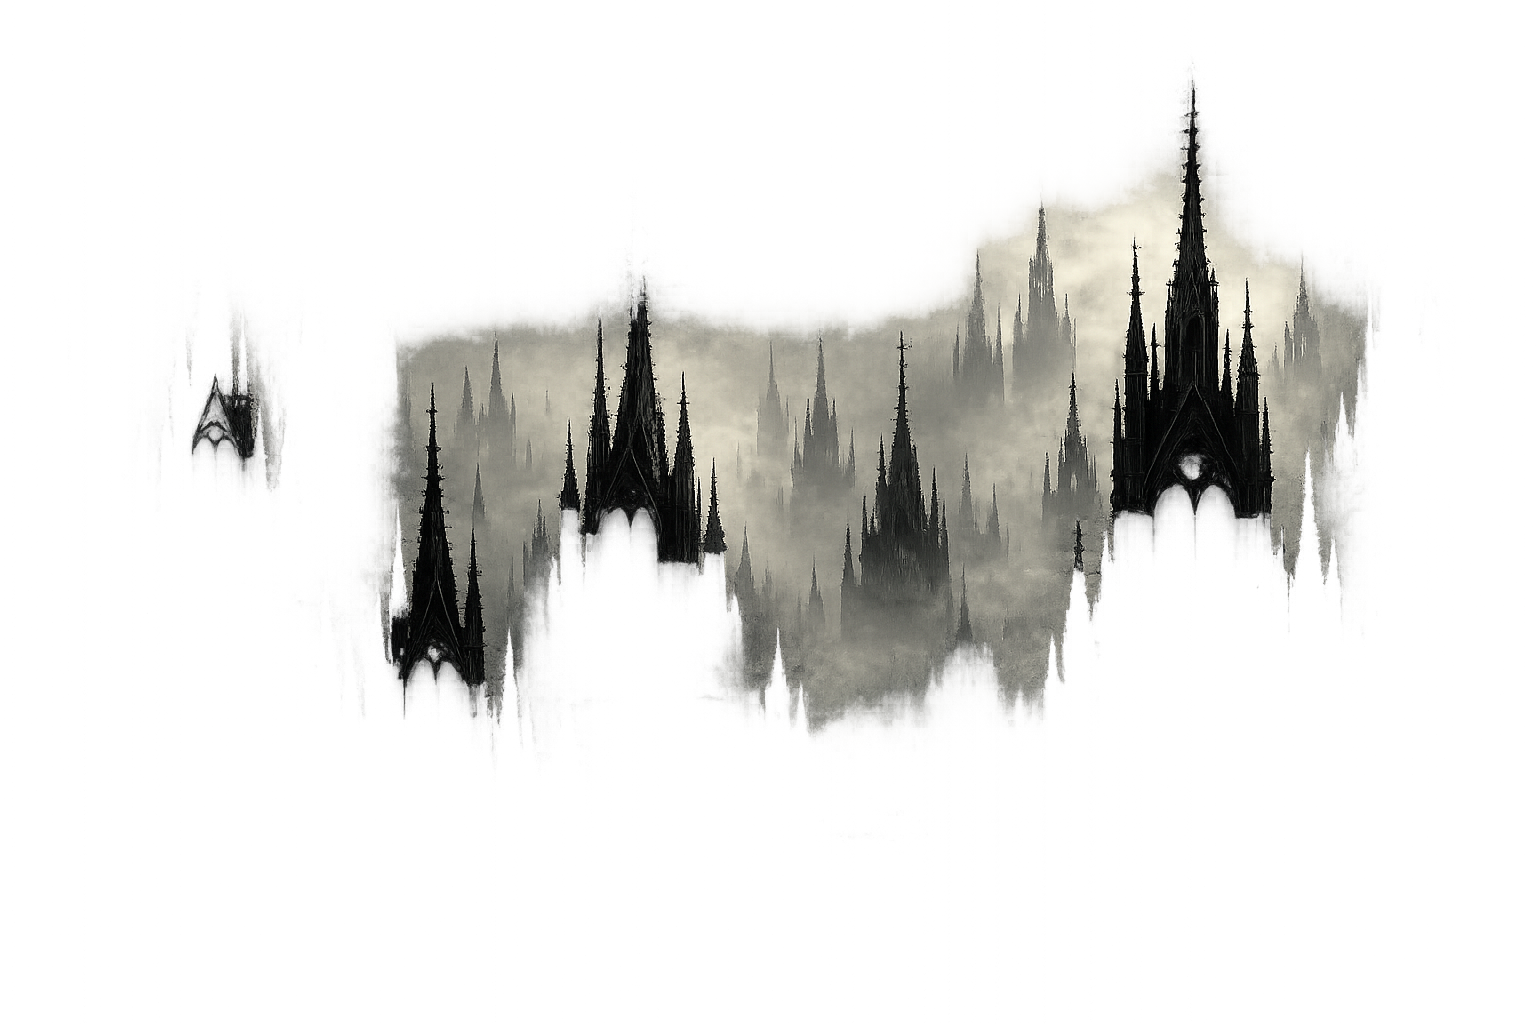
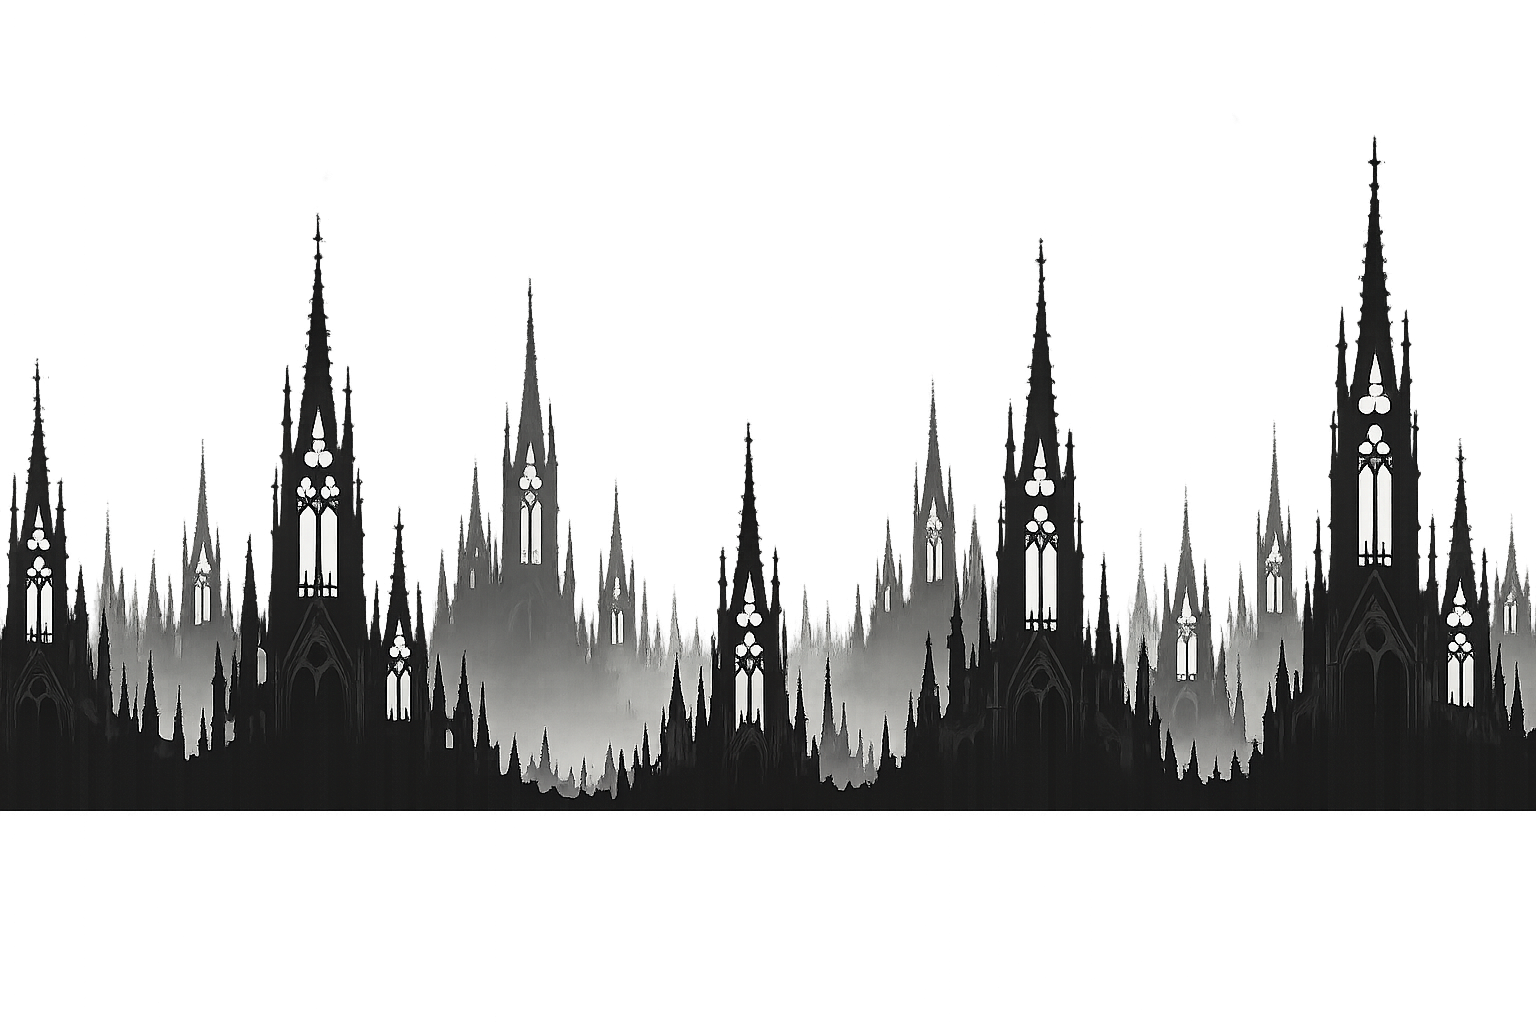
new photo for background

diff --git a/index.html b/index.html
@@ -65,7 +65,10 @@
       bottom: 0;
       left: 0;
       width: 100%;
+      display: block;
       pointer-events: none;
+      mix-blend-mode: screen;
+      opacity: 0.6;
     }
 
     /* GALLERY */
@@ -160,201 +163,7 @@
       <a href="services/" class="btn btn-ghost">View Services</a>
     </div>
 
-    <svg class="hero-drip" viewBox="0 0 1440 120" preserveAspectRatio="none" xmlns="http://www.w3.org/2000/svg" aria-hidden="true">
-      <path d="
-        M0,0
-        L0,40
-        C20,40 20,80 30,80
-        C35,80 35,100 40,100
-        C42,100 42,112 44,112
-        C45,112 45,118 46,118
-        C47,118 47,120 48,120
-        C49,120 49,118 50,118
-        C51,118 51,112 53,112
-        C55,112 55,100 60,100
-        C65,100 65,80 70,80
-        C80,80 80,40 100,40
-        C110,40 110,70 115,70
-        C118,70 118,88 120,88
-        C121,88 121,95 122,95
-        C123,95 123,98 124,98
-        C125,98 125,95 126,95
-        C127,95 127,88 129,88
-        C131,88 131,70 136,70
-        C141,70 141,40 160,40
-        C170,40 170,85 175,85
-        C178,85 178,105 180,105
-        C182,105 182,114 183,114
-        C184,114 184,119 185,119
-        C186,119 186,120 187,120
-        C188,120 188,119 189,119
-        C190,119 190,114 191,114
-        C192,114 192,105 194,105
-        C196,105 196,85 200,85
-        C205,85 205,40 220,40
-        C230,40 230,60 234,60
-        C236,60 236,75 237,75
-        C238,75 238,82 239,82
-        C240,82 240,75 241,75
-        C242,75 242,60 246,60
-        C250,60 250,40 270,40
-        C280,40 280,88 285,88
-        C288,88 288,108 290,108
-        C291,108 291,116 292,116
-        C293,116 293,120 294,120
-        C295,120 295,116 296,116
-        C297,116 297,108 299,108
-        C301,108 301,88 306,88
-        C311,88 311,40 330,40
-        C340,40 340,72 344,72
-        C346,72 346,90 347,90
-        C348,90 348,97 349,97
-        C350,97 350,90 351,90
-        C352,90 352,72 356,72
-        C360,72 360,40 380,40
-        C390,40 390,80 395,80
-        C398,80 398,100 400,100
-        C402,100 402,112 403,112
-        C404,112 404,118 405,118
-        C406,118 406,120 407,120
-        C408,120 408,118 409,118
-        C410,118 410,112 412,112
-        C414,112 414,100 419,100
-        C424,100 424,80 430,80
-        C440,80 440,40 460,40
-        C470,40 470,65 474,65
-        C476,65 476,82 477,82
-        C478,82 478,90 479,90
-        C480,90 480,82 481,82
-        C482,82 482,65 486,65
-        C490,65 490,40 510,40
-        C520,40 520,90 525,90
-        C528,90 528,108 530,108
-        C531,108 531,116 532,116
-        C533,116 533,120 534,120
-        C535,120 535,116 536,116
-        C537,116 537,108 539,108
-        C541,108 541,90 546,90
-        C551,90 551,40 570,40
-        C580,40 580,70 584,70
-        C586,70 586,86 587,86
-        C588,86 588,93 589,93
-        C590,93 590,86 591,86
-        C592,86 592,70 596,70
-        C600,70 600,40 620,40
-        C630,40 630,82 635,82
-        C638,82 638,102 640,102
-        C641,102 641,112 642,112
-        C643,112 643,118 644,118
-        C645,118 645,120 646,120
-        C647,120 647,118 648,118
-        C649,118 649,112 650,112
-        C651,112 651,102 653,102
-        C655,102 655,82 660,82
-        C665,82 665,40 680,40
-        C690,40 690,60 694,60
-        C696,60 696,75 697,75
-        C698,75 698,82 699,82
-        C700,82 700,75 701,75
-        C702,75 702,60 706,60
-        C710,60 710,40 730,40
-        C740,40 740,85 745,85
-        C748,85 748,105 750,105
-        C751,105 751,114 752,114
-        C753,114 753,119 754,119
-        C755,119 755,120 756,120
-        C757,120 757,119 758,119
-        C759,119 759,114 760,114
-        C761,114 761,105 763,105
-        C765,105 765,85 770,85
-        C775,85 775,40 790,40
-        C800,40 800,75 804,75
-        C806,75 806,92 807,92
-        C808,92 808,98 809,98
-        C810,98 810,92 811,92
-        C812,92 812,75 816,75
-        C820,75 820,40 840,40
-        C850,40 850,88 855,88
-        C858,88 858,108 860,108
-        C861,108 861,116 862,116
-        C863,116 863,120 864,120
-        C865,120 865,116 866,116
-        C867,116 867,108 869,108
-        C871,108 871,88 876,88
-        C881,88 881,40 900,40
-        C910,40 910,68 914,68
-        C916,68 916,84 917,84
-        C918,84 918,91 919,91
-        C920,91 920,84 921,84
-        C922,84 922,68 926,68
-        C930,68 930,40 950,40
-        C960,40 960,80 965,80
-        C968,80 968,100 970,100
-        C971,100 971,110 972,110
-        C973,110 973,115 974,115
-        C975,115 975,110 976,110
-        C977,110 977,100 979,100
-        C981,100 981,80 986,80
-        C991,80 991,40 1010,40
-        C1020,40 1020,72 1024,72
-        C1026,72 1026,88 1027,88
-        C1028,88 1028,95 1029,95
-        C1030,95 1030,88 1031,88
-        C1032,88 1032,72 1036,72
-        C1040,72 1040,40 1060,40
-        C1070,40 1070,84 1075,84
-        C1078,84 1078,104 1080,104
-        C1081,104 1081,113 1082,113
-        C1083,113 1083,118 1084,118
-        C1085,118 1085,120 1086,120
-        C1087,120 1087,118 1088,118
-        C1089,118 1089,113 1090,113
-        C1091,113 1091,104 1093,104
-        C1095,104 1095,84 1100,84
-        C1105,84 1105,40 1120,40
-        C1130,40 1130,62 1134,62
-        C1136,62 1136,78 1137,78
-        C1138,78 1138,86 1139,86
-        C1140,86 1140,78 1141,78
-        C1142,78 1142,62 1146,62
-        C1150,62 1150,40 1170,40
-        C1180,40 1180,88 1185,88
-        C1188,88 1188,106 1190,106
-        C1191,106 1191,115 1192,115
-        C1193,115 1193,119 1194,119
-        C1195,119 1195,120 1196,120
-        C1197,120 1197,119 1198,119
-        C1199,119 1199,115 1200,115
-        C1201,115 1201,106 1202,106
-        C1204,106 1204,88 1210,88
-        C1216,88 1216,40 1230,40
-        C1240,40 1240,70 1244,70
-        C1246,70 1246,86 1247,86
-        C1248,86 1248,93 1249,93
-        C1250,93 1250,86 1251,86
-        C1252,86 1252,70 1256,70
-        C1260,70 1260,40 1280,40
-        C1290,40 1290,80 1295,80
-        C1298,80 1298,100 1300,100
-        C1302,100 1302,112 1303,112
-        C1304,112 1304,118 1305,118
-        C1306,118 1306,120 1307,120
-        C1308,120 1308,118 1309,118
-        C1310,118 1310,112 1311,112
-        C1312,112 1312,100 1314,100
-        C1316,100 1316,80 1320,80
-        C1325,80 1325,40 1340,40
-        C1350,40 1350,65 1354,65
-        C1356,65 1356,80 1357,80
-        C1358,80 1358,88 1359,88
-        C1360,88 1360,80 1361,80
-        C1362,80 1362,65 1366,65
-        C1370,65 1370,40 1390,40
-        C1410,40 1415,60 1420,60
-        C1425,60 1430,40 1440,40
-        L1440,0 Z
-      " fill="#e8e3da" opacity="0.09"/>
-    </svg>
+    <img class="hero-drip" src="assets/cathedral.png" alt="" aria-hidden="true" />
   </section>
 
   <section id="gallery">
